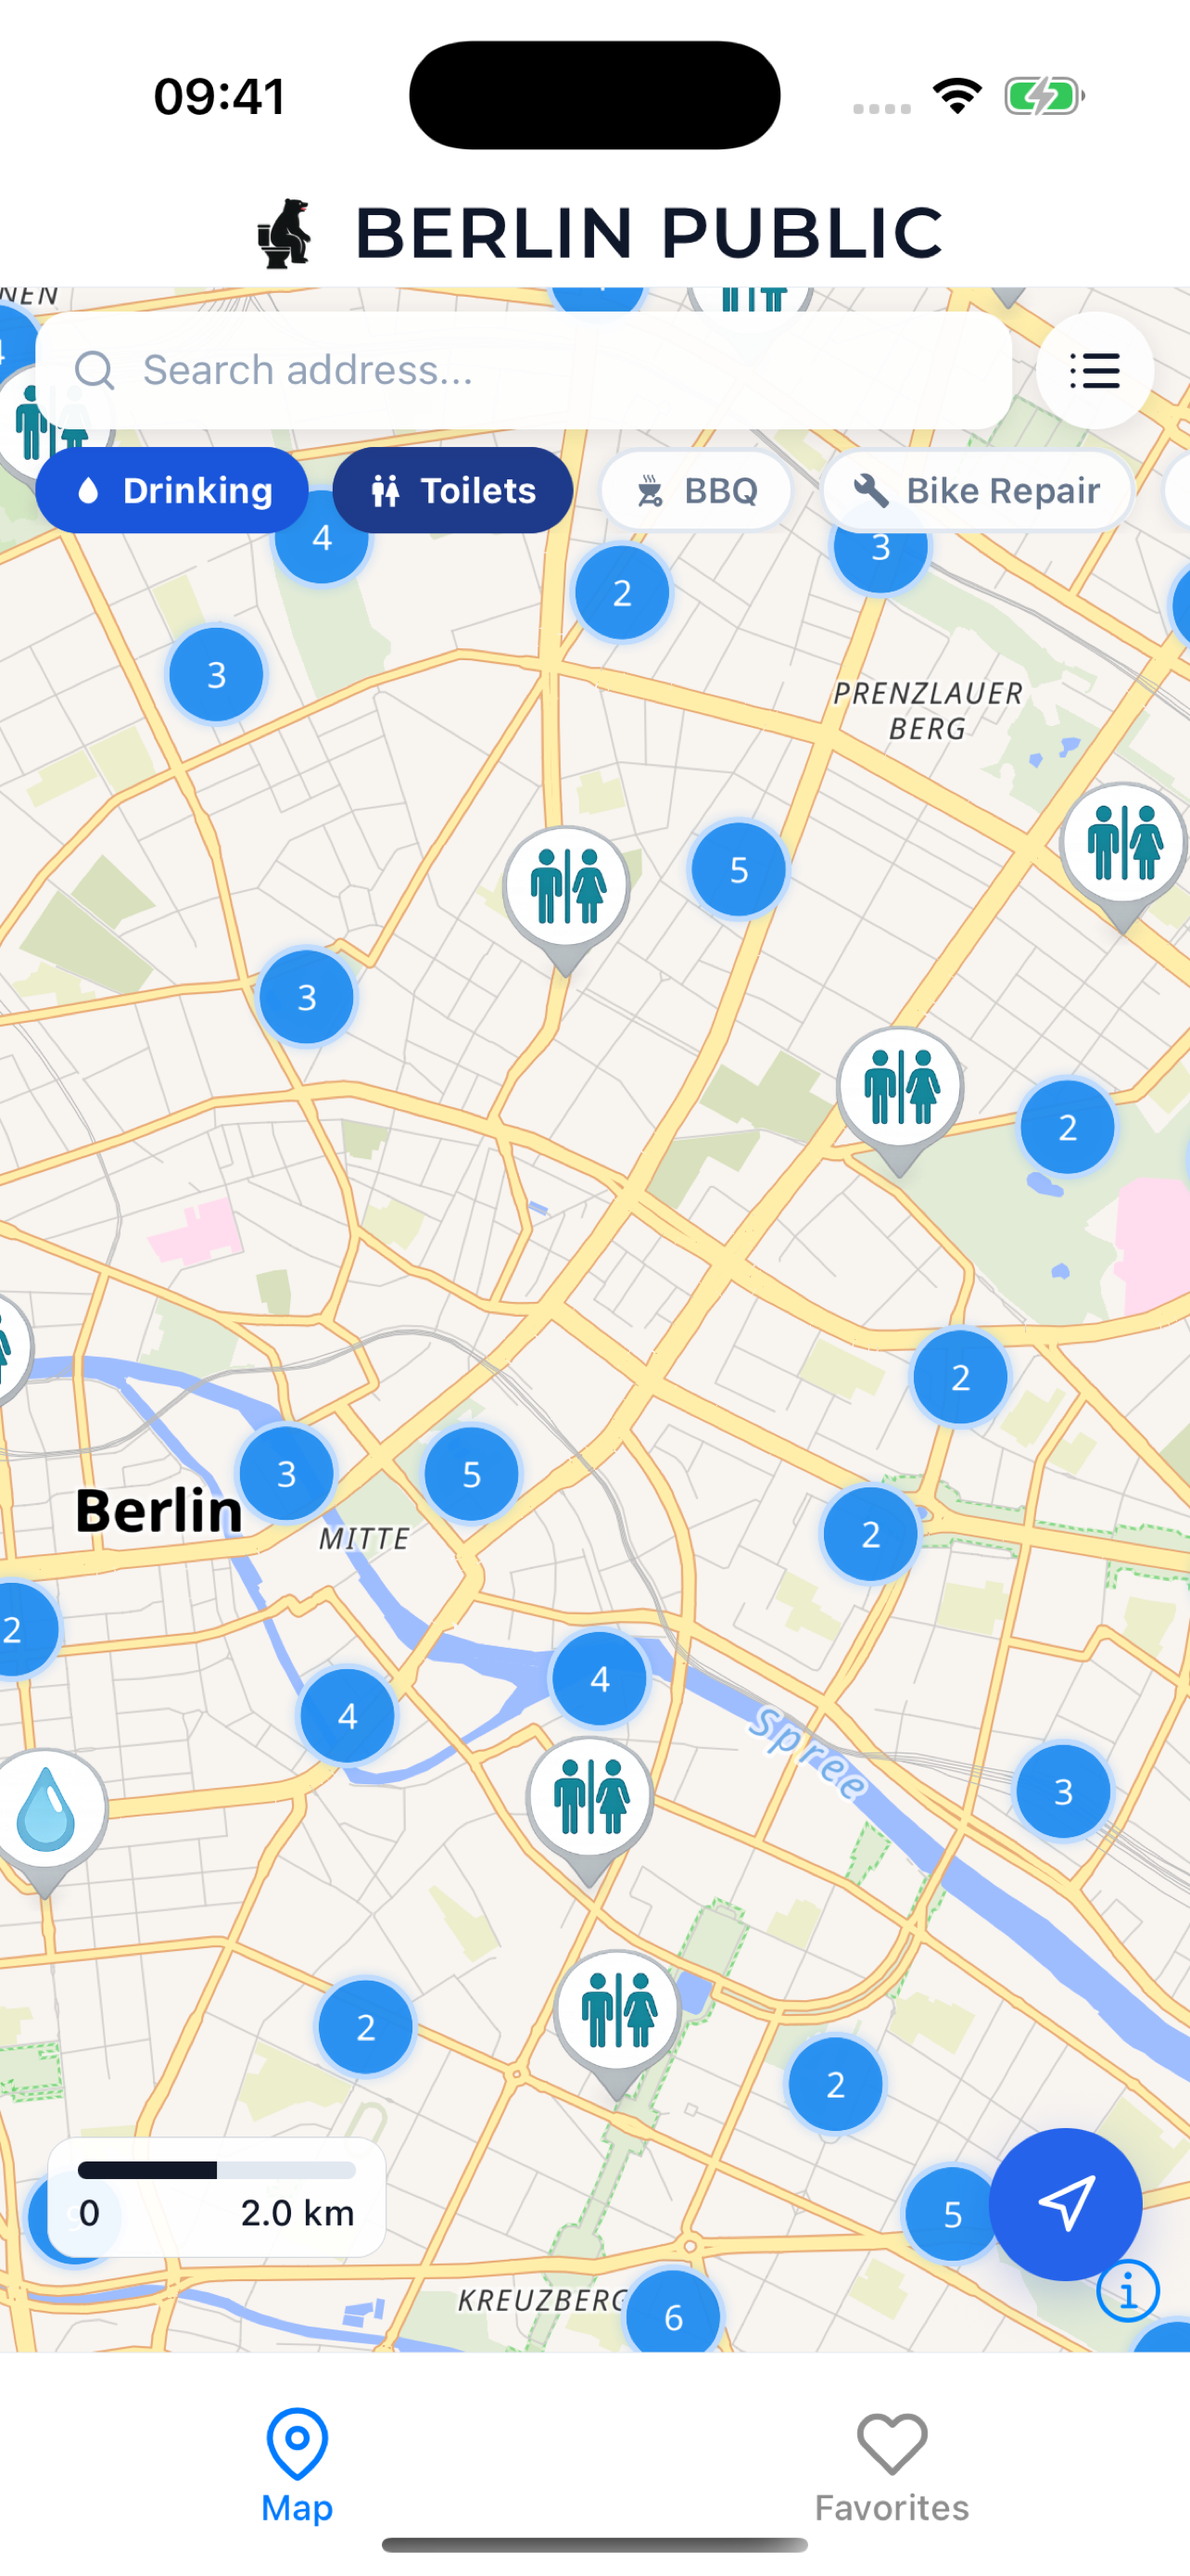
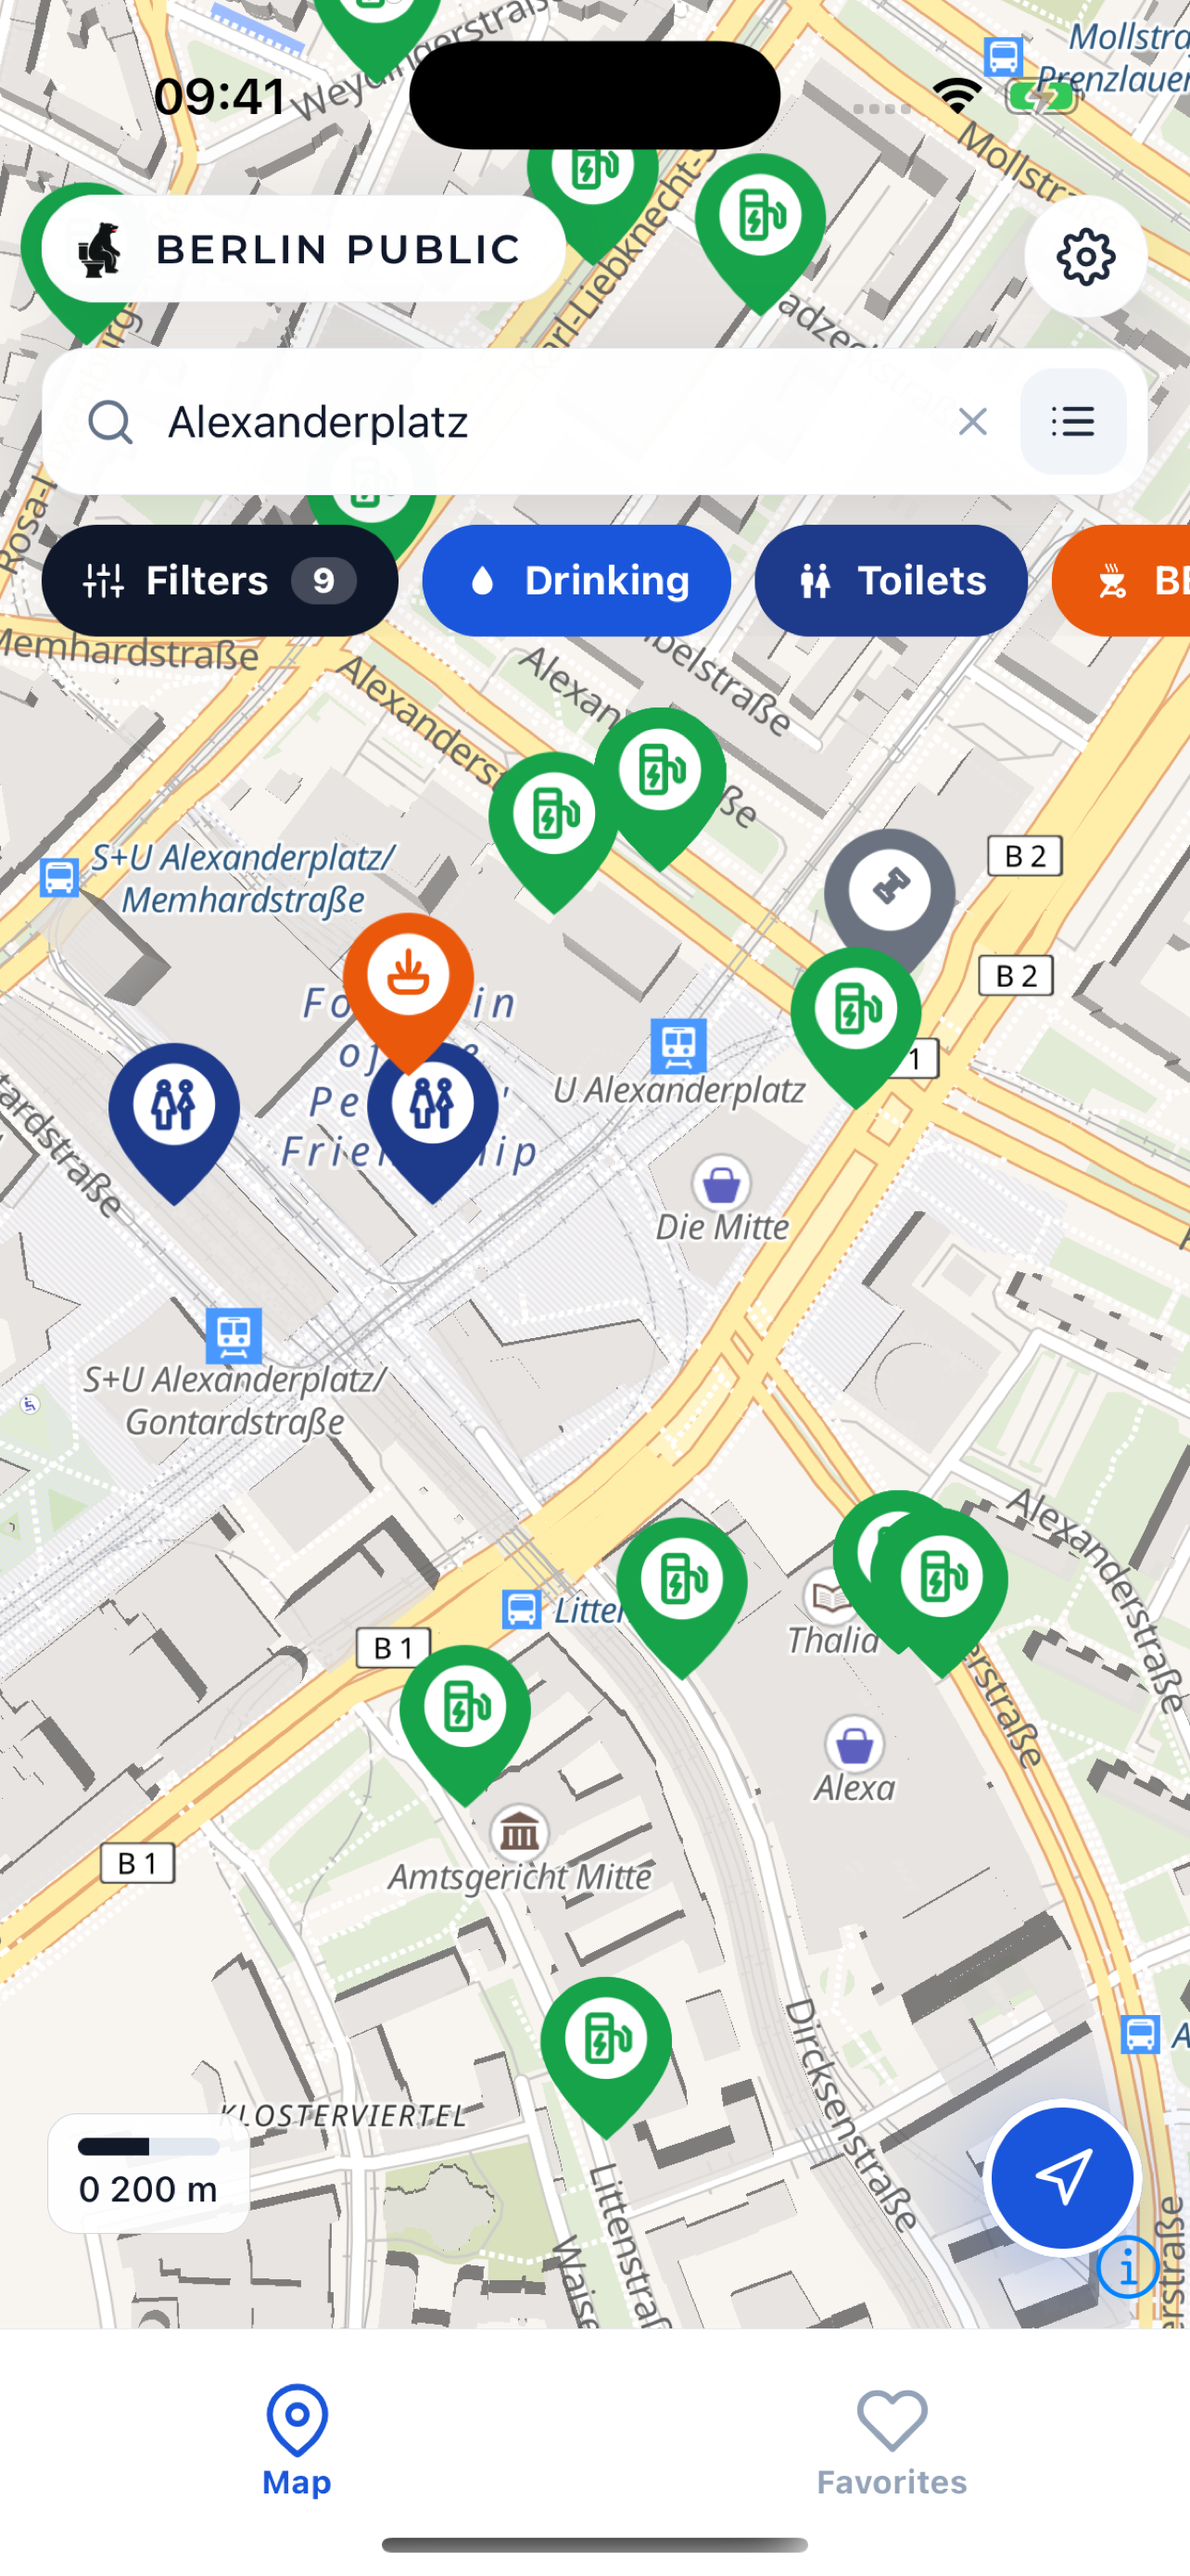
record merged release QA and refresh store screenshots

diff --git a/docs/release-qa-1.1.0.md b/docs/release-qa-1.1.0.md
@@ -8,7 +8,7 @@ Date: 2026-09-13. Devices: iPhone 17 Pro / iOS 26.2, Pixel 9a emulator / Android
 - Four-page onboarding on iPhone and Android, optional location granted on iPhone and denied on Android; browsing remains available.
 - All nine Berlin WFS sources respond successfully (7,842 combined records at test time).
 - iPhone map rendering and dark theme; readable dark details/list cards/brand.
-- Android blank map reproduced and fixed by MapLibre HTTP/1.1 configuration; restart, pan, and favorite navigation show tiles.
+- Android blank map reproduced; MapLibre HTTP/1.1 configuration improves loading. Restart, pan, and favorite navigation show tiles, but intermittent provider timeouts and slow cold tile loading remain observable.
 - Android favorite add, persistent storage across restarts, return to the correct amenity and scrollable details; distance sort disabled without permission.
 - iPhone community report saved and changed from working to not working, with a single database row and refreshed timestamp. UI counts moved from 1/0 to 0/1.
 - Voting used synthetic QA feature IDs, never false reports on real amenities. `qa_release_20260913` and `qa_release_ui_20260913` are isolated fixtures. Anonymous deletion is not permitted; privileged cleanup remains pending.
@@ -17,8 +17,8 @@ Date: 2026-09-13. Devices: iPhone 17 Pro / iOS 26.2, Pixel 9a emulator / Android
 
 ## Still to verify / finish
 
-- Final production artifact smoke checks remain.
-- Android address-search permission recovery and final offline layout retest.
+- Store-signed production artifacts still need validation; standalone local Android release smoke check passed onboarding, map/list navigation, details, persisted favorites and offline voting controls.
+- Android address-search permission recovery.
 - Store upload, privacy declarations, availability and review submission.
 
 ## Operational notes
@@ -36,3 +36,11 @@ Date: 2026-09-13. Devices: iPhone 17 Pro / iOS 26.2, Pixel 9a emulator / Android
 - iPhone Navigate opens Apple Maps; provider onboarding remains controlled by Apple Maps.
 - Expo Doctor: 21/21 checks pass.
 - The initial iOS production signing bundle was rejected by the build keychain. Re-exported PKCS#12 with compatible encryption and verified a valid code-signing identity in a temporary keychain.
+
+## Latest-design integration
+
+- Fetched and merged the previously missing June 8 design update from origin/main (26fdf9c). Preserved the new markers, floating controls, filter sheet and redesigned screens together with all reliability fixes.
+- Fixed filter contrast in dark mode and filter/details layering above list results. Select-all and reset work on iPhone and iPad.
+- Changed clipboard to a static import after reproducing a Metro lazy-module failure; iPhone Copy link now shows success.
+- Regenerated and replaced all six App Store screenshots with the merged design.
+- Standalone Android release: offline status appears inside details without an overlapping banner; both vote controls disable offline and re-enable online.

diff --git a/docs/implementation-plan.md b/docs/implementation-plan.md
@@ -15,13 +15,15 @@ Updated 2026-09-13. The previous plan's blanket completion claim was inaccurate:
 - Isolate MapLibre Android requests to HTTP/1.1 with bounded concurrency/timeouts after reproducing HTTP/2 tile stalls. Native clean rebuild and restart verified.
 - Correct offline and privacy claims: cached amenity details remain usable; new map tiles, geocoding, and reports need internet.
 
+- Merge the latest remote design update and fix filter layering, dark filter contrast, and lazy clipboard loading.
+
 ## Verification
 
 See `release-qa-1.1.0.md` for device evidence and pending checks. Jest: 19 tests in 5 suites; TypeScript passes. Expo Doctor and platform exports are part of the release gate.
 
 ## Release work in progress
 
-- EAS Android production versionCode 30 and iOS build 4 requested.
+- EAS Android production versionCode 31 and iOS build 5 requested.
 - App Store record, version 1.1.0, English metadata, free price, categories, age rating and review contact configured.
 - iPhone and iPad screenshots uploaded; availability configured. Apple privacy publication awaits the final certification. Finish production artifact validation and both store submissions.
 
